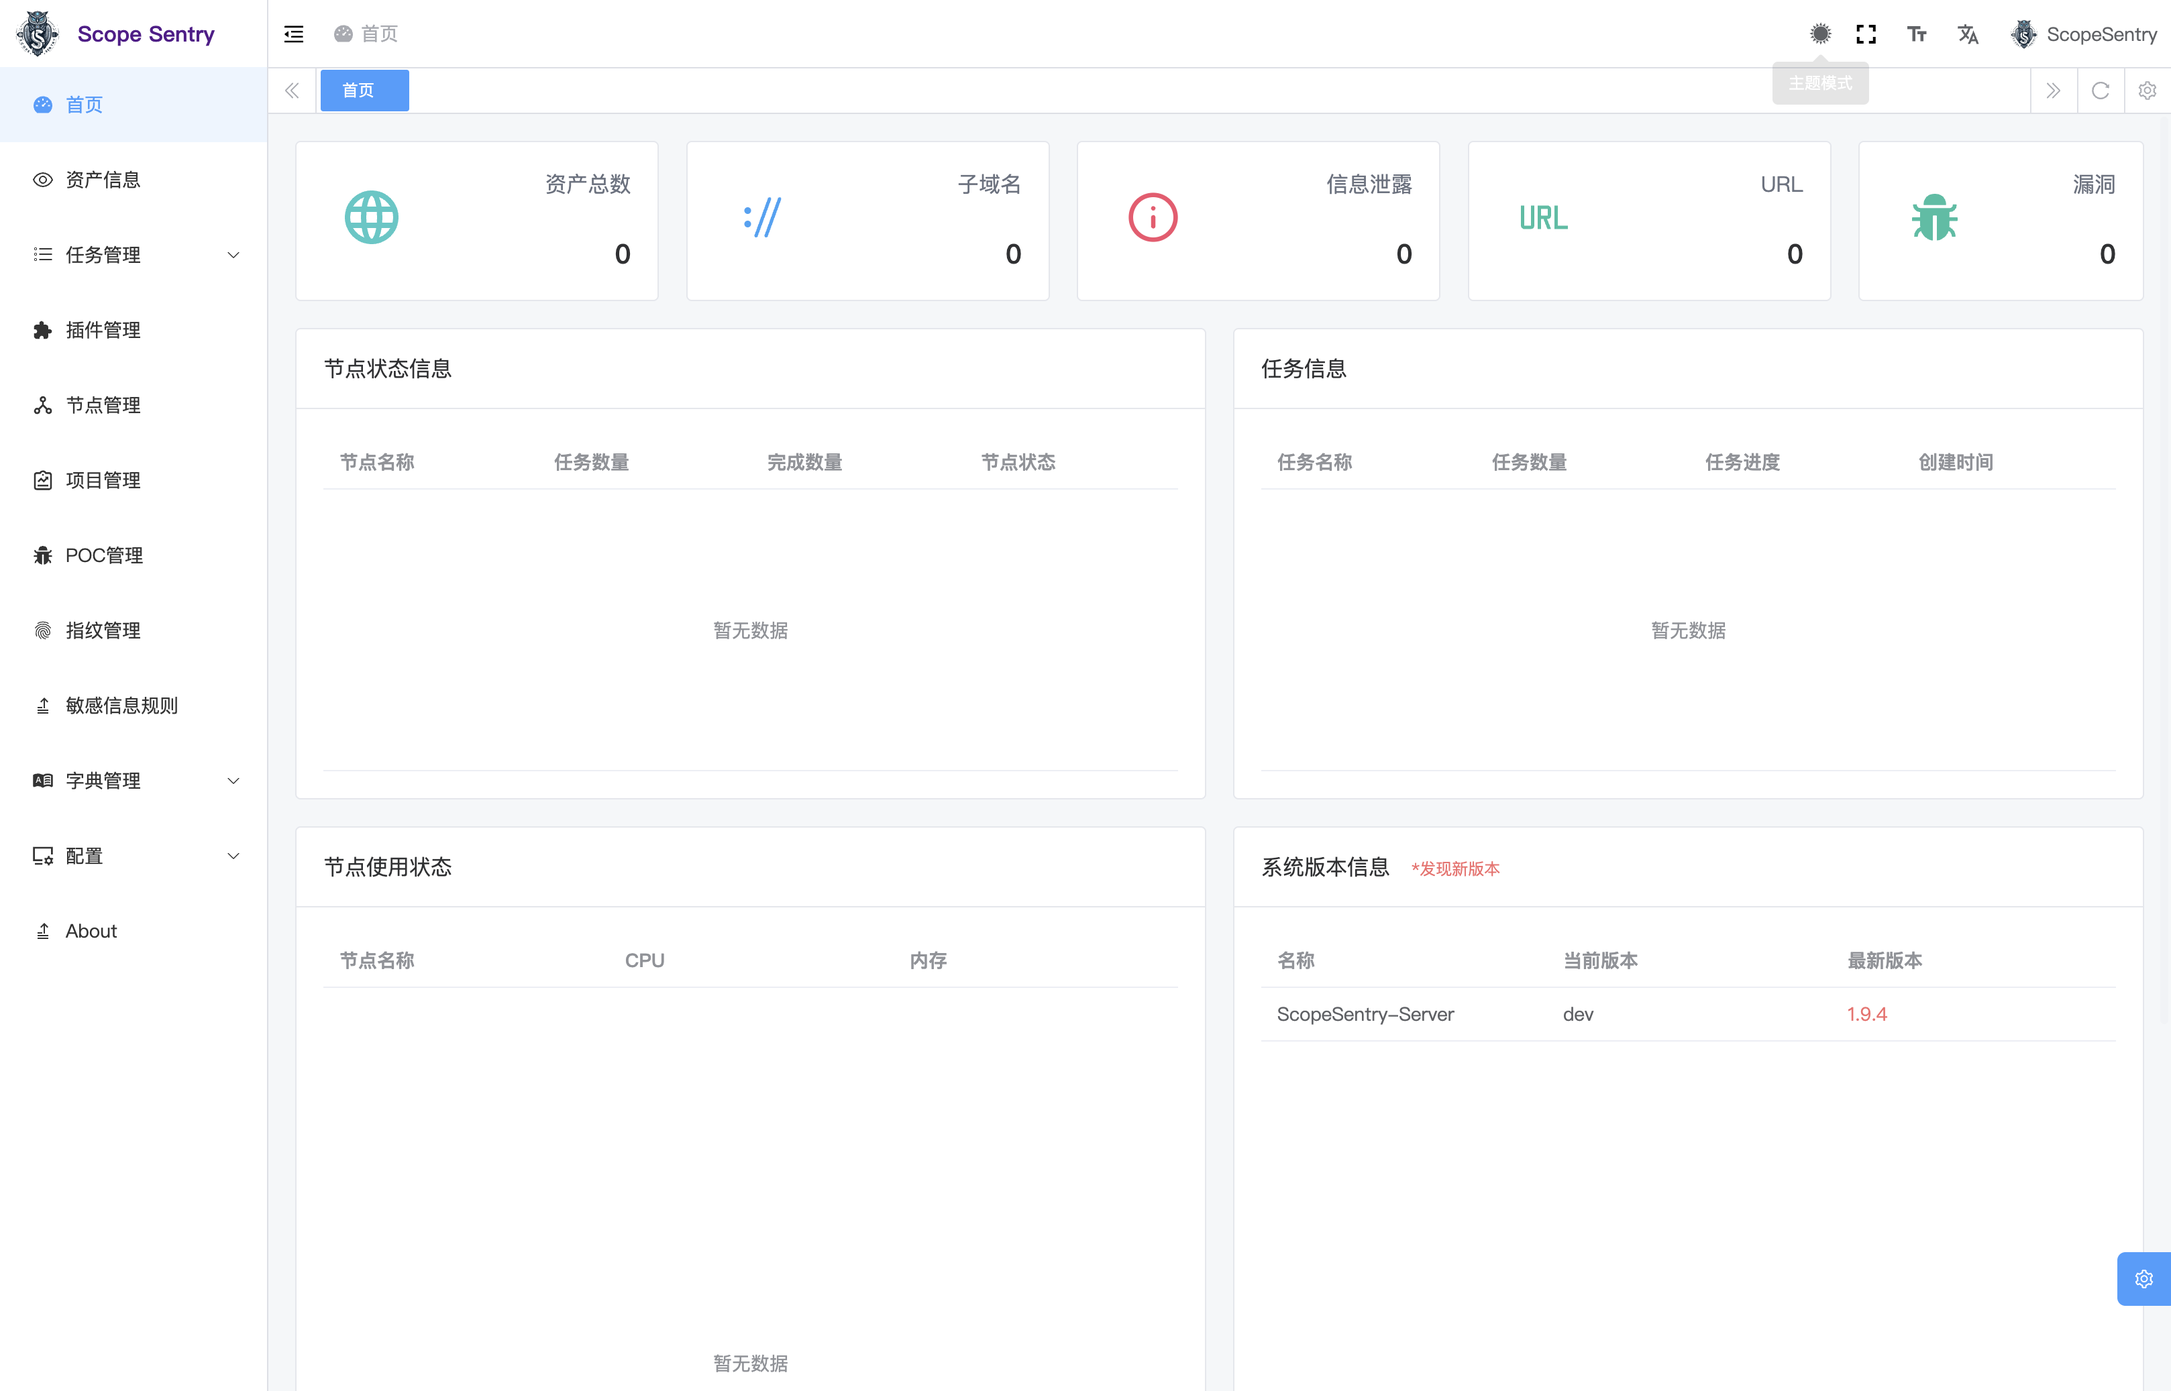
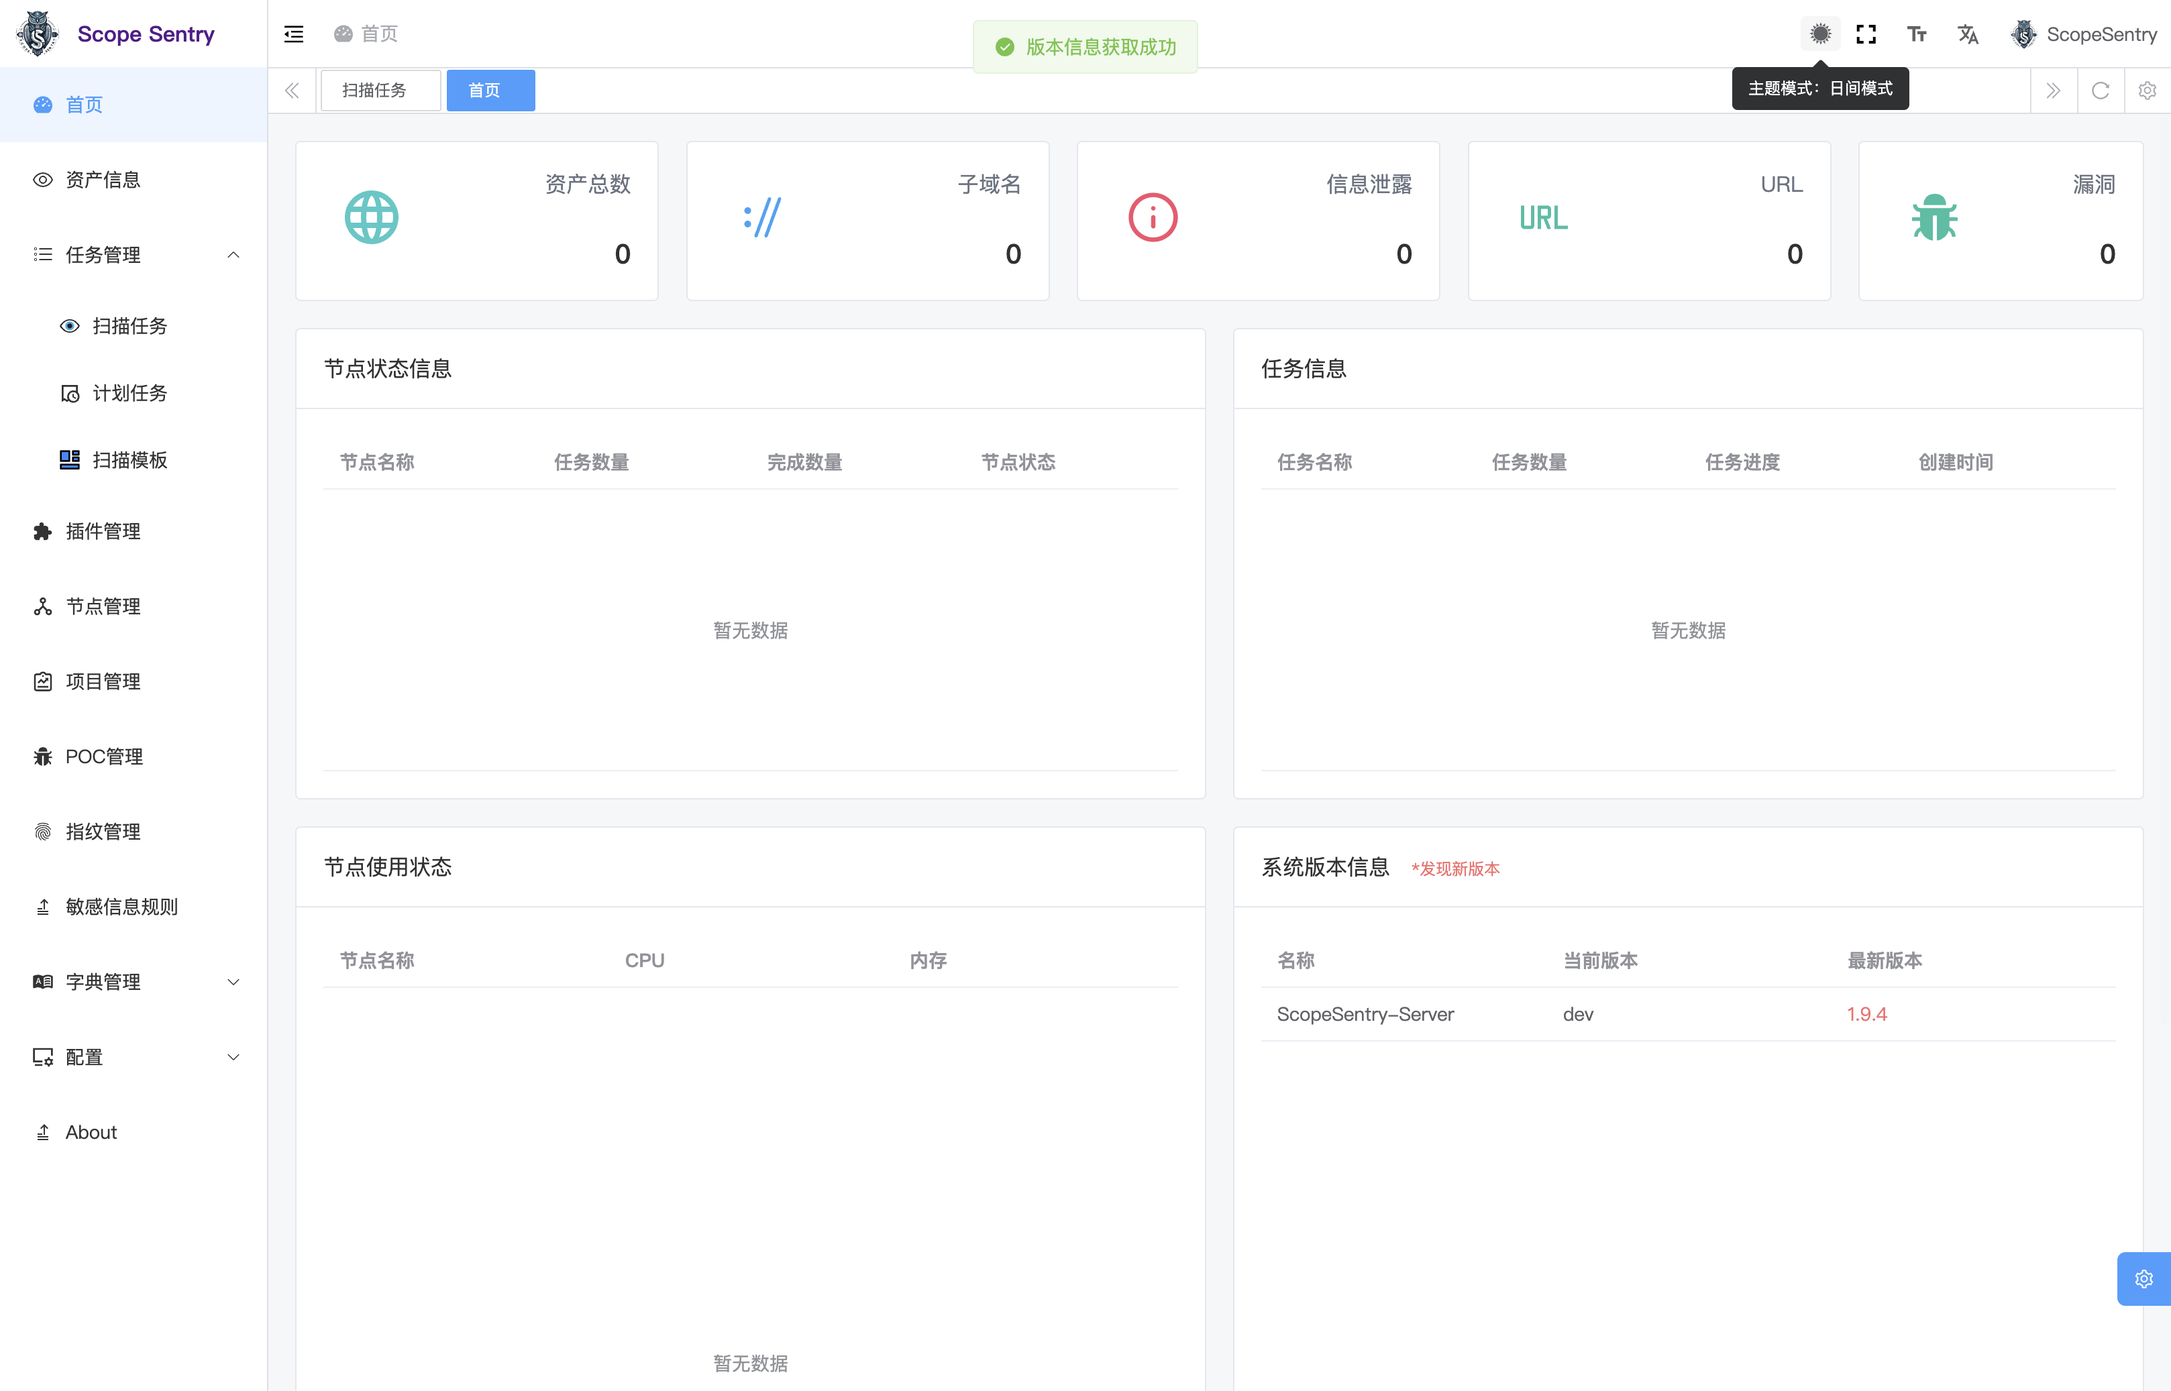
feat(ui): polish theme UX across header, settings, editors and shell
- 主题切换加 240ms 全局颜色过渡（reduced-motion 下关闭），设置面板改为三段式分段控件，顶栏入口改为真按钮并带动态 aria-label/提示（主题模式：夜间模式）

- 滚动条/选中文本/键盘 focus-visible 描边统一跟随主题变量；顶栏 .custom-hover 补统一 hover 反馈；index.html 增加 color-scheme meta，原生控件首屏即按主题渲染

- Monaco 差异/指纹编辑器跟随 vs/vs-dark，CodeMirror POC 编辑器深色才挂 oneDark，并移除写死的 #1e1e1e 背景；EChart 卸载 dispose

- docs/theme-dark-mode.md 增加 UI/UX 细节表与最新截图（深色/浅色/设置面板）

diff --git a/frontend/src/styles/index.less b/frontend/src/styles/index.less
@@ -6,3 +6,89 @@
 .el-popup-parent--hidden {
   width: 100% !important;
 }
+
+/* ---------------------------------------------------------------------------
+ * 主题切换过渡：只在手动切换时由 store 加 .theme-transition 类，260ms 后移除
+ * ------------------------------------------------------------------------- */
+html.theme-transition,
+html.theme-transition *,
+html.theme-transition *::before,
+html.theme-transition *::after {
+  transition:
+    background-color 0.24s ease,
+    color 0.24s ease,
+    border-color 0.24s ease,
+    box-shadow 0.24s ease,
+    fill 0.24s ease !important;
+  transition-delay: 0s !important;
+}
+
+@media (prefers-reduced-motion: reduce) {
+  html.theme-transition,
+  html.theme-transition *,
+  html.theme-transition *::before,
+  html.theme-transition *::after {
+    transition: none !important;
+  }
+}
+
+/* ---------------------------------------------------------------------------
+ * 滚动条：跟随主题变量，深浅色都不出现“亮色轨道 + 深色内容”的割裂感
+ * ------------------------------------------------------------------------- */
+::-webkit-scrollbar {
+  width: 8px;
+  height: 8px;
+}
+
+::-webkit-scrollbar-track {
+  background: transparent;
+}
+
+::-webkit-scrollbar-thumb {
+  background-color: var(--el-border-color-darker);
+  border-radius: 4px;
+}
+
+::-webkit-scrollbar-thumb:hover {
+  background-color: var(--el-text-color-disabled);
+}
+
+::-webkit-scrollbar-corner {
+  background: transparent;
+}
+
+/* Firefox */
+* {
+  scrollbar-width: thin;
+  scrollbar-color: var(--el-border-color-darker) transparent;
+}
+
+/* ---------------------------------------------------------------------------
+ * 键盘可达性：只在键盘聚焦时显示主色描边，鼠标点击不出现
+ * ------------------------------------------------------------------------- */
+a:focus-visible,
+button:focus-visible,
+[role='button']:focus-visible,
+.el-button:focus-visible {
+  outline: 2px solid var(--el-color-primary);
+  outline-offset: 2px;
+}
+
+/* 选中文本配色跟随主题 */
+::selection {
+  background-color: var(--el-color-primary-light-7);
+  color: var(--el-text-color-primary);
+}
+
+/* ---------------------------------------------------------------------------
+ * 顶栏图标统一交互态：折叠/全屏/尺寸/多语言/主题/用户信息复用 .custom-hover
+ * ------------------------------------------------------------------------- */
+.custom-hover {
+  border-radius: 4px;
+  transition: background-color 0.2s ease;
+}
+
+/* 只给顶栏内的图标加 hover 底色，侧边栏 logo 等区域不受影响 */
+#v-tool-header .custom-hover:hover {
+  background-color: var(--top-header-hover-color, var(--el-fill-color-light));
+}

diff --git a/frontend/src/components/Setting/src/Setting.vue b/frontend/src/components/Setting/src/Setting.vue
@@ -1,8 +1,7 @@
 <script setup lang="ts">
-import { ElDrawer, ElDivider, ElMessage } from 'element-plus'
+import { ElDrawer, ElDivider, ElMessage, ElRadioButton, ElRadioGroup } from 'element-plus'
 import { ref, unref, computed, watch } from 'vue'
 import { useI18n } from '@/hooks/web/useI18n'
-import { ThemeSwitch } from '@/components/ThemeSwitch'
 import { colorIsDark, lighten, hexToRGB } from '@/utils/color'
 import { useCssVar } from '@vueuse/core'
 import { useAppStore } from '@/store/modules/app'
@@ -13,6 +12,7 @@ import LayoutRadioPicker from './components/LayoutRadioPicker.vue'
 import { useStorage } from '@/hooks/web/useStorage'
 import { useClipboard } from '@vueuse/core'
 import { useDesign } from '@/hooks/web/useDesign'
+import type { ThemeMode } from '@/constants/theme'
 
 const { clear: storageClear } = useStorage('localStorage')
 
@@ -25,6 +25,12 @@ const appStore = useAppStore()
 const { t } = useI18n()
 
 const layout = computed(() => appStore.getLayout)
+
+// 主题模式：设置面板用分段控件，比下拉更直观
+const themeMode = computed<ThemeMode>({
+  get: () => appStore.getThemeMode,
+  set: (mode) => appStore.setThemeMode(mode)
+})
 
 const drawer = ref(false)
 
@@ -211,7 +217,11 @@ const clear = () => {
     <div class="text-center">
       <!-- 主题 -->
       <ElDivider>{{ t('setting.theme') }}</ElDivider>
-      <ThemeSwitch />
+      <ElRadioGroup v-model="themeMode" class="theme-mode-group">
+        <ElRadioButton label="light">{{ t('setting.themeLight') }}</ElRadioButton>
+        <ElRadioButton label="dark">{{ t('setting.themeDark') }}</ElRadioButton>
+        <ElRadioButton label="auto">{{ t('setting.themeAuto') }}</ElRadioButton>
+      </ElRadioGroup>
 
       <!-- 布局 -->
       <ElDivider>{{ t('setting.layout') }}</ElDivider>
@@ -294,5 +304,19 @@ const clear = () => {
 
 .@{prefix-cls} {
   border-radius: 6px 0 0 6px;
+}
+
+.theme-mode-group {
+  display: flex;
+  width: 100%;
+
+  :deep(.el-radio-button) {
+    flex: 1;
+  }
+
+  :deep(.el-radio-button__inner) {
+    width: 100%;
+    padding: 8px 0;
+  }
 }
 </style>

diff --git a/frontend/src/components/ThemeSwitch/src/ThemeSwitch.vue b/frontend/src/components/ThemeSwitch/src/ThemeSwitch.vue
@@ -50,17 +50,28 @@ const triggerIcon = computed(() => {
   return isDark.value ? 'emojione-monotone:crescent-moon' : 'emojione-monotone:sun'
 })
 
+// 提示文案带当前模式，避免用户只能靠图标猜
+const currentLabel = computed(() => {
+  const current = options.value.find((item) => item.value === mode.value)
+  return current ? `${t('setting.themeMode')}：${current.label}` : t('setting.themeMode')
+})
+
 const handleCommand = (command: ThemeMode) => {
   appStore.setThemeMode(command)
 }
 </script>
 
 <template>
-  <ElTooltip :content="t('setting.themeMode')" placement="bottom">
+  <ElTooltip :content="currentLabel" placement="bottom">
     <ElDropdown :class="prefixCls" trigger="click" @command="handleCommand">
-      <span :class="`${prefixCls}__trigger`" class="cursor-pointer flex items-center">
+      <button
+        type="button"
+        :class="`${prefixCls}__trigger`"
+        :aria-label="currentLabel"
+        :title="currentLabel"
+      >
         <Icon :icon="triggerIcon" :color="color || undefined" :size="18" />
-      </span>
+      </button>
       <template #dropdown>
         <ElDropdownMenu>
           <ElDropdownItem v-for="item in options" :key="item.value" :command="item.value">
@@ -86,7 +97,19 @@ const handleCommand = (command: ThemeMode) => {
 
 .@{prefix-cls} {
   &__trigger {
-    padding: 0 6px;
+    display: flex;
+    align-items: center;
+    padding: 4px 6px;
+    color: inherit;
+    cursor: pointer;
+    background: transparent;
+    border: none;
+    border-radius: 4px;
+    transition: background-color 0.2s ease;
+
+    &:hover {
+      background-color: var(--top-header-hover-color, var(--el-fill-color-light));
+    }
   }
 
   &__item {

diff --git a/frontend/src/store/modules/app.ts b/frontend/src/store/modules/app.ts
@@ -53,6 +53,7 @@ interface AppState {
 
 let mediaQueryList: MediaQueryList | null = null
 let mediaQueryHandler: ((event: MediaQueryListEvent) => void) | null = null
+let themeTransitionTimer: number | null = null
 
 /**
  * 监听系统深浅色变化，只在“跟随系统”模式下实时生效
@@ -305,9 +306,24 @@ export const useAppStore = defineStore('app', {
     },
     /** 手动切换：日间 / 夜间 / 跟随系统 */
     setThemeMode(themeMode: ThemeMode) {
+      if (themeMode === this.themeMode) return
       this.themeMode = themeMode
       setStorage(THEME_MODE_STORAGE_KEY, themeMode)
+      // 手动切换时给整页一次短过渡，避免颜色硬切；首次加载/跟随系统变化不加
+      this.playThemeTransition()
       this.setIsDark(resolveIsDark(themeMode, this.systemDark))
+    },
+    /** 主题切换的 260ms 全局过渡（系统级变化与人机切换的手感差异） */
+    playThemeTransition() {
+      if (typeof window === 'undefined' || typeof document === 'undefined') return
+      const root = document.documentElement
+      if (window.matchMedia?.('(prefers-reduced-motion: reduce)').matches) return
+      root.classList.add('theme-transition')
+      if (themeTransitionTimer) window.clearTimeout(themeTransitionTimer)
+      themeTransitionTimer = window.setTimeout(() => {
+        root.classList.remove('theme-transition')
+        themeTransitionTimer = null
+      }, 260)
     },
     /** 系统主题变化（prefers-color-scheme） */
     setSystemDark(systemDark: boolean) {

diff --git a/frontend/src/views/Fingerprint/components/Detail.vue b/frontend/src/views/Fingerprint/components/Detail.vue
@@ -5,8 +5,11 @@ import { ref, onMounted, onBeforeUnmount, watch } from 'vue'
 import { toRefs } from '@vueuse/core'
 import { updateFingerprintDataApi, addFingerprintDataApi } from '@/api/Fingerprint'
 import * as monaco from 'monaco-editor'
+import { useAppStore } from '@/store/modules/app'
 
 const { t } = useI18n()
+
+const appStore = useAppStore()
 const props = defineProps<{
   closeDialog: () => void
   getList: () => void
@@ -49,7 +52,7 @@ onMounted(() => {
     editor = monaco.editor.create(editorContainer.value, {
       value: initialValue,
       language: 'yaml',
-      theme: 'vs-dark',
+      theme: appStore.getIsDark ? 'vs-dark' : 'vs',
       automaticLayout: true,
       minimap: { enabled: false },
       scrollBeyondLastLine: false,
@@ -67,6 +70,12 @@ onMounted(() => {
 })
 
 // 监听外部数据变化
+// 主题切换后同步 monaco 全局主题（实例不需要重建）
+watch(
+  () => appStore.getIsDark,
+  (dark) => monaco.editor.setTheme(dark ? 'vs-dark' : 'vs')
+)
+
 watch(
   () => [props.fingerprintForm.content, props.fingerprintForm.id],
   ([newValue, id]) => {
@@ -174,14 +183,6 @@ const submitForm = async () => {
 /* Monaco Editor 样式优化 */
 :deep(.monaco-editor) {
   border-radius: 8px;
-}
-
-:deep(.monaco-editor .margin) {
-  background-color: #1e1e1e !important;
-}
-
-:deep(.monaco-editor .monaco-editor-background) {
-  background-color: #1e1e1e !important;
 }
 
 :deep(.monaco-scrollable-element > .scrollbar) {

diff --git a/frontend/src/views/Asset/detail/MonacoDiffEditor.vue b/frontend/src/views/Asset/detail/MonacoDiffEditor.vue
@@ -1,16 +1,26 @@
+/**
+ * Monaco 差异编辑器：跟随全局主题（vs / vs-dark）
+ */
 <script setup lang="tsx">
-import { onMounted, ref } from 'vue'
+import { computed, onBeforeUnmount, onMounted, ref, watch } from 'vue'
 import * as monaco from 'monaco-editor'
+import { useAppStore } from '@/store/modules/app'
 
 const props = defineProps<{ original: string; modified: string }>()
+
+const appStore = useAppStore()
+
+const isDark = computed(() => appStore.getIsDark)
 
 const editorContainer = ref<HTMLDivElement | null>(null)
 let diffEditor: monaco.editor.IStandaloneDiffEditor | null = null
 
+const monacoTheme = () => (isDark.value ? 'vs-dark' : 'vs')
+
 onMounted(() => {
   if (editorContainer.value) {
     diffEditor = monaco.editor.createDiffEditor(editorContainer.value, {
-      theme: 'vs-dark',
+      theme: monacoTheme(),
       originalEditable: true,
       automaticLayout: true
     })
@@ -20,6 +30,16 @@ onMounted(() => {
       modified: monaco.editor.createModel(props.modified, 'javascript')
     })
   }
+})
+
+// monaco 的主题是全局设置，切换后所有实例一起变
+watch(isDark, () => {
+  monaco.editor.setTheme(monacoTheme())
+})
+
+onBeforeUnmount(() => {
+  diffEditor?.dispose()
+  diffEditor = null
 })
 </script>
 <template>

diff --git a/frontend/src/views/Poc/components/Detail.vue b/frontend/src/views/Poc/components/Detail.vue
@@ -17,11 +17,16 @@ import { useI18n } from '@/hooks/web/useI18n'
 import { Codemirror } from 'vue-codemirror'
 import { javascript } from '@codemirror/lang-javascript'
 import { oneDark } from '@codemirror/theme-one-dark'
-import { nextTick, reactive, ref } from 'vue'
+import { computed, nextTick, reactive, ref } from 'vue'
 import { toRefs } from '@vueuse/core'
 import { updatePocDataApi, addPocDataApi } from '@/api/poc'
+import { useAppStore } from '@/store/modules/app'
 const { t } = useI18n()
-const extensions = [javascript(), oneDark]
+
+const appStore = useAppStore()
+
+// 深色才挂 oneDark，浅色用 CodeMirror 默认亮色
+const extensions = computed(() => (appStore.getIsDark ? [javascript(), oneDark] : [javascript()]))
 const props = defineProps<{
   closeDialog: () => void
   getList: () => void
@@ -130,6 +135,7 @@ const handleInputConfirm = () => {
   <ElForm :model="localForm" label-width="120px" status-icon ref="ruleFormRef">
     <ElFormItem :label="t('poc.content')" prop="content">
       <codemirror
+        :key="appStore.getIsDark ? 'cm-dark' : 'cm-light'"
         v-model="localForm.content"
         :style="{ height: '600px', width: '100%' }"
         :autofocus="true"

diff --git a/frontend/index.html b/frontend/index.html
@@ -4,6 +4,8 @@
     <meta charset="UTF-8" />
     <link rel="icon" href="/favicon.ico" />
     <meta name="viewport" content="width=device-width, initial-scale=1.0" />
+    <!-- 让浏览器原生控件/表单/滚动条在 JS 执行前就按系统配色渲染 -->
+    <meta name="color-scheme" content="light dark" />
     <!-- 首屏防闪烁：在样式/脚本加载前就应用主题（日间 / 夜间 / 跟随系统） -->
     <script>
       ;(function () {

diff --git a/docs/theme-dark-mode.md b/docs/theme-dark-mode.md
@@ -72,3 +72,21 @@ npx vite build --mode pro        # 产物 dist-pro/
 4. 切回「跟随系统」→ 立即对齐系统当前状态。
 5. 登录页切换 → 登录后进入后台保持一致。
 6. 图表页（首页 Dashboard / 项目详情）在两种模式下坐标轴与图例清晰可读。
+
+## UI/UX 细节（本次一并打磨）
+
+| 细节 | 行为 | 实现位置 |
+| --- | --- | --- |
+| 切换过渡 | 手动切换主题时整页 240ms 颜色过渡（背景/文字/边框/阴影），300ms 后移除过渡类；`prefers-reduced-motion` 下不启用 | `store/modules/app.ts::playThemeTransition` + `styles/index.less` |
+| 首屏一致性 | `<meta name="color-scheme" content="light dark">` + 内联脚本，浏览器原生控件/滚动条在 JS 执行前就按主题渲染 | `index.html` |
+| 滚动条 | 8px、跟随 `--el-border-color-darker`，hover 加深；Firefox 用 `scrollbar-width/color` | `styles/index.less` |
+| 键盘可达性 | 主题入口是真 `<button>`，带动态 `aria-label`（如「主题模式：夜间模式」）；`:focus-visible` 主色描边 | `ThemeSwitch.vue` + `styles/index.less` |
+| 顶栏图标 | `.custom-hover` 统一 hover 底色（仅顶栏内），其余图标不再"点了没反馈" | `styles/index.less` |
+| 设置面板 | 主题从下拉改为三段式分段控件（日间 / 夜间 / 跟随系统），一眼看清当前值 | `components/Setting/src/Setting.vue` |
+| 编辑器 | Monaco（指纹/差异视图）在 `vs` 与 `vs-dark` 间切换；CodeMirror（POC）深色挂 oneDark、浅色用默认亮色，并移除写死的 `#1e1e1e` 覆盖 | `MonacoDiffEditor.vue`、`Fingerprint/components/Detail.vue`、`Poc/components/Detail.vue` |
+| 图表 | ECharts 切换时 dispose 后按 `dark` 主题重建，卸载时释放实例，避免 canvas/ResizeObserver 泄漏 | `components/Echart/src/Echart.vue` |
+| 文案 | 主题菜单项、提示、状态标签（待开始）三语齐备，864 键对齐 | `locales/{zh-CN,en,ko-KR}.ts` |
+
+设置面板主题分段控件：
+
+![settings](./images/theme/settings-theme-mode.png)
